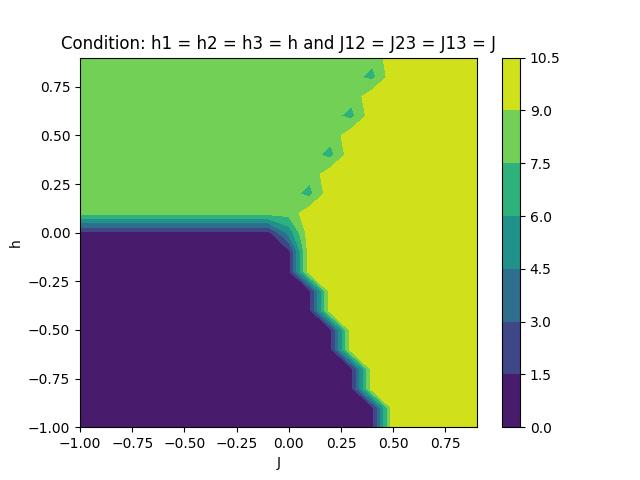
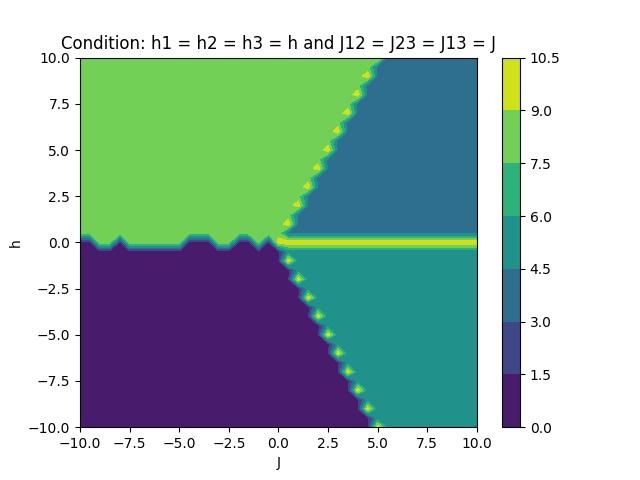
Non degenerate spectrum for 3 qubits

diff --git a/three_plot_hJ.py b/three_plot_hJ.py
@@ -25,13 +25,13 @@ s3_I_s3 = np.kron(np.kron(s3, I), s3)
 I_s3_s3 = np.kron(np.kron(I, s3), s3)
 
 zeta = np.matrix([[1, 0, 0, 0, 0, 0, 0, 0], 
-                  [0, 2, 0, 0, 0, 0, 0, 0],
-                  [0, 0, 3, 0, 0, 0, 0, 0],
-                  [0, 0, 0, 4, 0, 0, 0, 0],
-                  [0, 0, 0, 0, 5, 0, 0, 0], 
-                  [0, 0, 0, 0, 0, 6, 0, 0],
-                  [0, 0, 0, 0, 0, 0, 7, 0],
-                  [0, 0, 0, 0, 0, 0, 0, 8]])
+                  [0, 10, 0, 0, 0, 0, 0, 0],
+                  [0, 0, 100, 0, 0, 0, 0, 0],
+                  [0, 0, 0, 1000, 0, 0, 0, 0],
+                  [0, 0, 0, 0, 10000, 0, 0, 0], 
+                  [0, 0, 0, 0, 0, 100000, 0, 0],
+                  [0, 0, 0, 0, 0, 0, 1000000, 0],
+                  [0, 0, 0, 0, 0, 0, 0, 10000000]])
 
 def round_half_up(n, decimals=0):
     multiplier = 10 ** decimals
@@ -57,7 +57,7 @@ s = np.array(data['s'])
 h0 = (s1_I_I + I_s1_I + I_I_s1)
 
 def hf(h, J):
-    return (biases(h) * s3_I_I + biases(h) * I_s3_I + biases(h) * I_I_s3) + (coupling_strengths(J) * s3_s3_I + coupling_strengths(J) * s3_I_s3 + coupling_strengths(J) * I_s3_s3)
+    return (biases(h) * s3_I_I + 2 * biases(h) * I_s3_I + 3 * biases(h) * I_I_s3) + (coupling_strengths(J) * s3_s3_I + coupling_strengths(J) * s3_I_s3 + coupling_strengths(J) * I_s3_s3)
 
 def H(t, h, J):
     return - A.item(t) / 2 * h0 + B.item(t) / 2 * hf(h, J)
@@ -72,36 +72,39 @@ def ground_state(h, J):
         EigVectors = EigVectors[:,permute]
         
     EigVectors = np.real(EigVectors)
-    pippo = round_half_up(np.linalg.norm(zeta * EigVectors[:,0]), 1)
+    for i in range(0, 8):
+        EigVectors[:,0][i] = round_half_up(EigVectors[:,0][i], 1)
+    
+    pippo = round_half_up(np.linalg.norm(zeta * EigVectors[:,0]))
     
     if pippo == 1.0:
         return 1
-    elif pippo == 2.0:
+    elif pippo == 10.0:
         return 2
-    elif pippo == 3.0:
+    elif pippo == 100.0:
         return 3
-    elif pippo == 4.0:
+    elif pippo == 1000.0:
         return 4
-    elif pippo == 5.0:
+    elif pippo == 10000.0:
         return 5
-    elif pippo == 6.0:
+    elif pippo == 100000.0:
         return 6
-    elif pippo == 7.0:
+    elif pippo == 1000000.0:
         return 7
-    elif pippo == 8.0:
+    elif pippo == 10000000.0:
         return 8
     else:
         return 10
 
 z = []
 
-for h in np.arange(-1, 1, 0.1):
+for h in np.arange(-10, 10.5, 0.5):
     z.append([])
-    for J in np.arange(-1, 1, 0.1):
+    for J in np.arange(-10, 10.5, 0.5):
          z[-1].append(ground_state(h,J))
 
-xlist = np.linspace(-1, 0.9, 20)
-ylist = np.linspace(-1, 0.9, 20)
+xlist = np.linspace(-10, 10, 41)
+ylist = np.linspace(-10, 10, 41)
 X, Y = np.meshgrid(xlist, ylist)
  
 fig, ax = plt.subplots(1,1)

diff --git a/three_qubit.py b/three_qubit.py
@@ -25,9 +25,9 @@ I_s3_s3 = np.kron(np.kron(I, s3), s3)
 
 # objective function parameters
 
-biases = np.array([1, 1/2, 3/2])
-coupling_strengths = np.matrix([[0, 3/2, 3/2], 
-                                [0, 0, 3/2],
+biases = np.array([-5, -10, -15])
+coupling_strengths = np.matrix([[0, 8, 8], 
+                                [0, 0, 8],
                                 [0, 0, 0]])
 
 # QPU anneal parameters
@@ -44,7 +44,7 @@ B = B * h
 # hamiltonians
 
 h0 = (s1_I_I + I_s1_I + I_I_s1)
-hf = (biases.item(0) * s3_I_I + biases.item(1) * I_s3_I + biases.item(2) * I_I_s3) + (coupling_strengths.item(0, 0) * s3_s3_I + coupling_strengths.item(0, 1) * s3_I_s3 + coupling_strengths.item(1, 1) * I_s3_s3)
+hf = (biases.item(0) * s3_I_I + biases.item(1) * I_s3_I + biases.item(2) * I_I_s3) + (coupling_strengths.item(0, 1) * s3_s3_I + coupling_strengths.item(0, 2) * s3_I_s3 + coupling_strengths.item(1, 2) * I_s3_s3)
 
 def H(t): 
     return - A.item(t) / 2 * h0 + B.item(t) / 2 * hf
